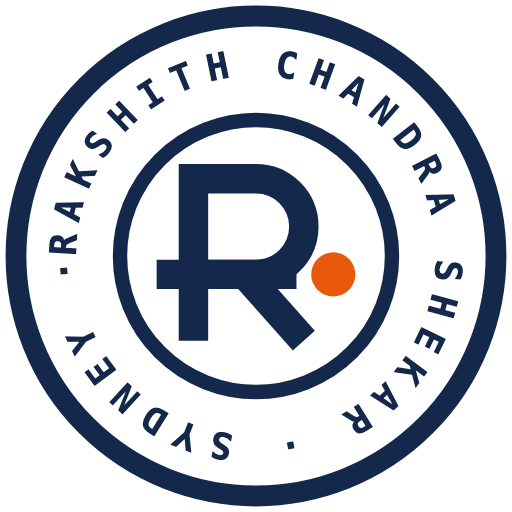
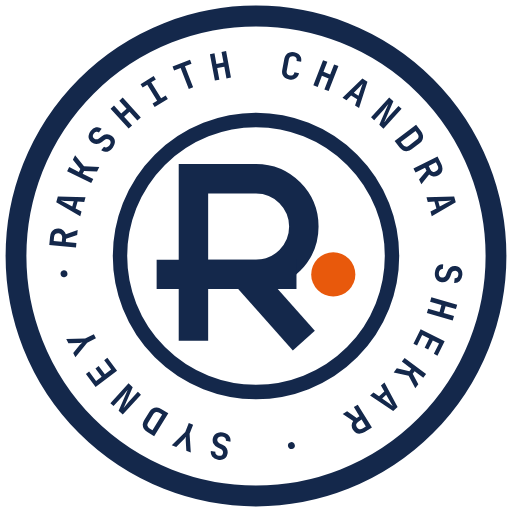
Phase 2 review: drop contact-heading seal, hide hero seal <640px, outline seal text
Seal ring text is now outlined JetBrains Mono Bold glyphs, shared by the
master SVG, PNG and the React component (src/components/seal-text.ts).

diff --git a/src/components/seal-text.ts b/src/components/seal-text.ts
@@ -1,0 +1,3 @@
+// Generated: the seal's ring text as outlined JetBrains Mono Bold glyphs (see public/brand/seal.svg).
+export const SEAL_TEXT_D =
+  "M9.55 30.38L9.5 30.95L6.16 30.64L6.26 29.58Q6.29 29.25 6.43 29.01Q6.58 28.78 6.81 28.66Q7.05 28.55 7.35 28.57L7.35 28.57Q7.68 28.61 7.92 28.8Q8.15 28.99 8.23 29.28L8.23 29.28L9.71 28.75L9.65 29.39L8.26 29.85L8.23 30.25L9.55 30.38M6.71 30.11L7.72 30.21L7.77 29.72Q7.79 29.48 7.67 29.33Q7.55 29.18 7.32 29.16L7.32 29.16Q7.08 29.14 6.93 29.26Q6.78 29.39 6.76 29.63L6.76 29.63L6.71 30.11M10.19 26.45L10.03 27.02L7.03 25.28L7.23 24.57L10.69 24.67L10.53 25.24L9.7 25.19L9.45 26.05L10.19 26.45M8.22 25.38L9.03 25.82L9.22 25.16L8.3 25.11Q8.06 25.1 7.88 25.08Q7.69 25.07 7.61 25.06L7.61 25.06Q7.69 25.1 7.85 25.18Q8.02 25.26 8.22 25.38L8.22 25.38M11.66 22.38L11.4 22.89L8.39 21.4L8.65 20.88L9.86 21.49L10.04 21.13L9.11 19.96L9.39 19.4L10.5 20.79L12.41 20.86L12.13 21.44L10.51 21.37L10.33 21.72L11.66 22.38M14.09 18.46L14.09 18.46Q13.88 18.74 13.63 18.87Q13.39 19 13.14 18.98Q12.89 18.96 12.65 18.79L12.65 18.79L13 18.33Q13.16 18.46 13.35 18.41Q13.53 18.36 13.69 18.15L13.69 18.15Q13.84 17.95 13.83 17.77Q13.82 17.59 13.66 17.47L13.66 17.47Q13.52 17.37 13.36 17.37Q13.2 17.37 13.06 17.49L13.06 17.49L12.74 17.74Q12.42 17.99 12.08 18Q11.74 18.02 11.44 17.79L11.44 17.79Q11.22 17.62 11.13 17.39Q11.03 17.16 11.09 16.9Q11.14 16.64 11.33 16.39L11.33 16.39Q11.62 16 12 15.92Q12.37 15.84 12.71 16.09L12.71 16.09L12.36 16.55Q12.2 16.43 12.04 16.47Q11.87 16.5 11.73 16.69L11.73 16.69Q11.59 16.87 11.6 17.03Q11.61 17.2 11.77 17.31L11.77 17.31Q11.91 17.42 12.06 17.42Q12.21 17.42 12.36 17.3L12.36 17.3L12.69 17.05Q13.01 16.79 13.35 16.78Q13.68 16.77 13.99 17L13.99 17Q14.22 17.17 14.31 17.41Q14.4 17.65 14.34 17.92Q14.29 18.19 14.09 18.46M16.51 15.68L16.08 16.06L13.82 13.58L14.25 13.19L15.15 14.19L15.82 13.58L14.91 12.59L15.34 12.2L17.6 14.68L17.17 15.07L16.18 13.98L15.51 14.58L16.51 15.68M20.98 12.36L19.33 13.38L19.07 12.95L19.64 12.59L18.41 10.6L17.83 10.95L17.57 10.52L19.21 9.51L19.48 9.94L18.9 10.29L20.14 12.29L20.71 11.93L20.98 12.36M24.14 10.91L23.6 11.12L22.58 8.49L21.76 8.81L21.57 8.31L23.75 7.47L23.94 7.96L23.12 8.28L24.14 10.91M27.42 9.97L26.86 10.07L26.24 6.77L26.81 6.67L27.05 7.99L27.94 7.82L27.69 6.5L28.26 6.39L28.87 9.69L28.31 9.8L28.04 8.35L27.15 8.51L27.42 9.97M36.14 9.93L36.14 9.93Q35.83 9.87 35.61 9.71Q35.4 9.54 35.31 9.3Q35.22 9.06 35.28 8.76L35.28 8.76L35.55 7.32Q35.6 7.02 35.77 6.83Q35.94 6.63 36.2 6.56Q36.46 6.48 36.78 6.54L36.78 6.54Q37.1 6.6 37.31 6.76Q37.52 6.93 37.61 7.17Q37.7 7.41 37.64 7.71L37.64 7.71L37.07 7.61Q37.12 7.37 37.02 7.23Q36.92 7.08 36.68 7.04L36.68 7.04Q36.45 6.99 36.3 7.09Q36.16 7.19 36.11 7.42L36.11 7.42L35.84 8.86Q35.8 9.1 35.9 9.24Q36.01 9.39 36.24 9.43L36.24 9.43Q36.47 9.48 36.62 9.38Q36.76 9.28 36.81 9.04L36.81 9.04L37.38 9.15Q37.32 9.45 37.15 9.64Q36.98 9.84 36.72 9.92Q36.47 9.99 36.14 9.93M39.71 10.86L39.17 10.65L40.38 7.52L40.92 7.73L40.43 8.98L41.27 9.31L41.76 8.05L42.3 8.26L41.08 11.39L40.55 11.18L41.08 9.81L40.24 9.48L39.71 10.86M43.31 12.54L42.81 12.23L45.3 9.82L45.93 10.21L44.88 13.51L44.38 13.2L44.65 12.41L43.89 11.94L43.31 12.54M44.88 10.94L44.23 11.6L44.81 11.96L45.11 11.09Q45.19 10.87 45.25 10.69Q45.32 10.52 45.35 10.44L45.35 10.44Q45.29 10.5 45.17 10.64Q45.04 10.78 44.88 10.94L44.88 10.94M46.77 15.02L46.38 14.67L48.65 12.18L49.17 12.66L48.03 15.29Q48.12 15.17 48.24 15.02Q48.36 14.86 48.5 14.7Q48.63 14.54 48.74 14.42L48.74 14.42L49.81 13.24L50.2 13.6L47.93 16.08L47.41 15.6L48.56 12.98Q48.48 13.08 48.36 13.23Q48.24 13.38 48.11 13.53Q47.99 13.68 47.88 13.81L47.88 13.81L46.77 15.02M49.93 18.41L49.33 17.61L52.01 15.59L52.61 16.39Q52.82 16.66 52.87 16.94Q52.91 17.21 52.81 17.47Q52.71 17.72 52.45 17.91L52.45 17.91L51.45 18.67Q51.19 18.86 50.92 18.89Q50.65 18.93 50.39 18.8Q50.14 18.68 49.93 18.41L49.93 18.41M51.94 16.37L50.1 17.75L50.36 18.09Q50.51 18.29 50.71 18.32Q50.91 18.36 51.1 18.21L51.1 18.21L52.1 17.45Q52.29 17.31 52.32 17.11Q52.34 16.9 52.19 16.71L52.19 16.71L51.94 16.37M51.94 21.56L51.68 21.05L54.69 19.55L55.16 20.5Q55.31 20.8 55.31 21.08Q55.31 21.35 55.17 21.58Q55.03 21.8 54.76 21.94L54.76 21.94Q54.46 22.08 54.16 22.05Q53.86 22.01 53.64 21.8L53.64 21.8L52.67 23.03L52.38 22.45L53.31 21.34L53.13 20.97L51.94 21.56M54.49 20.29L53.59 20.74L53.8 21.18Q53.91 21.4 54.09 21.46Q54.27 21.53 54.48 21.42L54.48 21.42Q54.7 21.31 54.76 21.13Q54.82 20.95 54.71 20.73L54.71 20.73L54.49 20.29M53.47 25.24L53.31 24.67L56.77 24.57L56.97 25.28L53.97 27.02L53.81 26.45L54.55 26.05L54.3 25.19L53.47 25.24M55.71 25.11L54.78 25.16L54.97 25.82L55.78 25.38Q55.98 25.27 56.15 25.18Q56.31 25.1 56.39 25.06L56.39 25.06Q56.31 25.07 56.12 25.09Q55.94 25.1 55.71 25.11L55.71 25.11M54.36 34.08L54.36 34.08Q54.39 33.74 54.53 33.5Q54.66 33.25 54.89 33.14Q55.12 33.02 55.4 33.05L55.4 33.05L55.35 33.62Q55.15 33.6 55.02 33.74Q54.88 33.88 54.86 34.13L54.86 34.13Q54.84 34.38 54.94 34.53Q55.04 34.68 55.24 34.7L55.24 34.7Q55.41 34.71 55.55 34.63Q55.68 34.54 55.74 34.36L55.74 34.36L55.89 33.99Q56.02 33.6 56.3 33.41Q56.58 33.22 56.96 33.26L56.96 33.26Q57.24 33.29 57.44 33.43Q57.64 33.58 57.73 33.83Q57.82 34.07 57.79 34.39L57.79 34.39Q57.75 34.88 57.47 35.14Q57.2 35.4 56.77 35.37L56.77 35.37L56.83 34.79Q57.02 34.81 57.15 34.7Q57.27 34.58 57.29 34.34L57.29 34.34Q57.32 34.12 57.22 33.99Q57.13 33.85 56.93 33.83L56.93 33.83Q56.76 33.82 56.63 33.9Q56.5 33.98 56.43 34.16L56.43 34.16L56.29 34.55Q56.15 34.94 55.87 35.12Q55.59 35.31 55.21 35.27L55.21 35.27Q54.93 35.25 54.72 35.09Q54.52 34.93 54.42 34.67Q54.33 34.42 54.36 34.08M53.76 37.72L53.92 37.17L57.15 38.09L56.99 38.64L55.7 38.27L55.45 39.14L56.75 39.51L56.59 40.06L53.36 39.14L53.52 38.59L54.94 39L55.18 38.13L53.76 37.72M51.68 42.96L52.58 41.16L55.58 42.65L54.68 44.46L54.23 44.23L54.88 42.94L54.1 42.55L53.52 43.7L53.08 43.48L53.65 42.32L52.77 41.89L52.13 43.18L51.68 42.96M50.23 45.2L50.58 44.74L53.26 46.76L52.91 47.22L51.83 46.4L51.59 46.72L52.29 48.04L51.91 48.54L51.08 46.97L49.21 46.55L49.6 46.04L51.17 46.4L51.41 46.09L50.23 45.2M47.62 48.2L48.06 47.81L49.7 50.86L49.15 51.36L46.26 49.45L46.69 49.05L47.38 49.53L48.04 48.93L47.62 48.2M48.74 50.15L48.27 49.35L47.77 49.81L48.53 50.34Q48.72 50.47 48.87 50.58Q49.02 50.69 49.08 50.74L49.08 50.74Q49.04 50.67 48.94 50.51Q48.84 50.35 48.74 50.15L48.74 50.15M44.23 50.89L44.72 50.59L46.49 53.44L45.59 54Q45.3 54.18 45.02 54.2Q44.75 54.23 44.52 54.11Q44.28 53.99 44.12 53.73L44.12 53.73Q43.95 53.45 43.96 53.15Q43.97 52.85 44.15 52.61L44.15 52.61L42.84 51.75L43.39 51.41L44.59 52.24L44.93 52.02L44.23 50.89M45.73 53.31L45.2 52.45L44.79 52.71Q44.58 52.84 44.53 53.03Q44.48 53.21 44.61 53.41L44.61 53.41Q44.73 53.61 44.92 53.66Q45.11 53.7 45.32 53.57L45.32 53.57L45.73 53.31M36.35 55.27L36.35 55.27Q36.54 55.23 36.68 55.33Q36.82 55.42 36.85 55.61L36.85 55.61Q36.89 55.81 36.8 55.94Q36.7 56.08 36.51 56.12L36.51 56.12Q36.31 56.15 36.18 56.06Q36.04 55.96 36 55.77L36 55.77Q35.97 55.58 36.06 55.44Q36.16 55.31 36.35 55.27M27.87 54.07L27.87 54.07Q28.2 54.13 28.43 54.29Q28.66 54.45 28.75 54.69Q28.85 54.92 28.8 55.21L28.8 55.21L28.23 55.1Q28.27 54.9 28.15 54.76Q28.02 54.61 27.77 54.57L27.77 54.57Q27.52 54.52 27.36 54.61Q27.21 54.7 27.17 54.89L27.17 54.89Q27.14 55.06 27.21 55.2Q27.28 55.35 27.46 55.43L27.46 55.43L27.82 55.6Q28.19 55.77 28.35 56.07Q28.51 56.37 28.44 56.73L28.44 56.73Q28.39 57.01 28.23 57.2Q28.06 57.38 27.81 57.45Q27.55 57.52 27.24 57.46L27.24 57.46Q26.76 57.37 26.52 57.07Q26.29 56.77 26.36 56.36L26.36 56.36L26.93 56.46Q26.89 56.66 27 56.79Q27.1 56.93 27.33 56.97L27.33 56.97Q27.55 57.01 27.7 56.93Q27.84 56.85 27.87 56.66L27.87 56.66Q27.9 56.49 27.83 56.35Q27.76 56.21 27.6 56.13L27.6 56.13L27.22 55.95Q26.85 55.78 26.69 55.48Q26.53 55.19 26.6 54.81L26.6 54.81Q26.65 54.53 26.83 54.34Q27 54.15 27.27 54.08Q27.53 54.01 27.87 54.07M23.6 52.88L24.14 53.09L23.7 54.22L23.85 56.57L23.29 56.35L23.22 55.08Q23.21 54.93 23.22 54.79Q23.23 54.65 23.24 54.58L23.24 54.58Q23.2 54.64 23.12 54.75Q23.03 54.86 22.93 54.97L22.93 54.97L22.03 55.87L21.47 55.65L23.16 54.01L23.6 52.88M20.19 51.15L21.04 51.67L19.27 54.53L18.42 54Q18.13 53.83 17.98 53.58Q17.84 53.34 17.84 53.07Q17.85 52.8 18.02 52.52L18.02 52.52L18.68 51.46Q18.85 51.19 19.09 51.06Q19.33 50.93 19.61 50.95Q19.9 50.97 20.19 51.15L20.19 51.15M19.06 53.78L20.27 51.82L19.91 51.6Q19.7 51.47 19.5 51.51Q19.3 51.55 19.17 51.76L19.17 51.76L18.51 52.83Q18.38 53.03 18.43 53.23Q18.49 53.42 18.7 53.55L18.7 53.55L19.06 53.78M17.23 48.98L17.62 49.33L15.35 51.82L14.83 51.34L15.97 48.71Q15.88 48.83 15.76 48.98Q15.64 49.14 15.5 49.3Q15.37 49.46 15.26 49.58L15.26 49.58L14.19 50.76L13.8 50.4L16.07 47.92L16.59 48.4L15.44 51.02Q15.52 50.92 15.64 50.77Q15.76 50.62 15.89 50.47Q16.01 50.32 16.12 50.19L16.12 50.19L17.23 48.98M13.42 44.73L14.63 46.34L11.95 48.36L10.74 46.75L11.14 46.45L12.01 47.61L12.71 47.08L11.93 46.05L12.33 45.75L13.11 46.78L13.89 46.19L13.02 45.03L13.42 44.73M11.73 41.77L11.99 42.29L10.9 42.83L9.42 44.67L9.15 44.13L9.96 43.14Q10.06 43.02 10.16 42.93Q10.26 42.83 10.32 42.79L10.32 42.79Q10.24 42.8 10.11 42.83Q9.97 42.85 9.82 42.86L9.82 42.86L8.55 42.92L8.28 42.39L10.64 42.31L11.73 41.77M8.43 34.18L8.43 34.18Q8.45 34.38 8.34 34.51Q8.24 34.64 8.04 34.65L8.04 34.65Q7.84 34.67 7.72 34.57Q7.59 34.46 7.57 34.26L7.57 34.26Q7.55 34.07 7.66 33.94Q7.77 33.81 7.96 33.79L7.96 33.79Q8.16 33.77 8.28 33.88Q8.41 33.99 8.43 34.18";

diff --git a/src/components/logo.tsx b/src/components/logo.tsx
@@ -1,4 +1,4 @@
-import { useId } from "react";
+import { SEAL_TEXT_D } from "@/components/seal-text";
 import { t } from "@/lib/motion-config";
 
 // Brand marks. Geometry matches public/brand/mark.svg and seal.svg (the masters).
@@ -40,17 +40,12 @@ export function Mark({ className = "", draw = false, label }: { className?: stri
 
 /** Engineer's seal. Only for >= 96px: it reads as a (R) when smaller. */
 export function Seal({ className = "" }: { className?: string }) {
-  const id = "seal-" + useId().replace(/\W/g, "");
   return (
     <svg viewBox="0 0 64 64" aria-hidden className={className}>
       <circle cx="32" cy="32" r="30" fill="none" stroke="currentColor" strokeWidth="2.6" />
       <circle cx="32" cy="32" r="17" fill="none" stroke="currentColor" strokeWidth="1.8" />
-      <path id={id} d="M32 32m-22.5 0a22.5 22.5 0 1 1 45 0a22.5 22.5 0 1 1-45 0" fill="none" />
-      <text fontFamily="var(--font-mono)" fontWeight="700" fontSize="4.6" fill="currentColor">
-        <textPath href={`#${id}`} textLength="140" lengthAdjust="spacing">
-          RAKSHITH CHANDRA SHEKAR · SYDNEY ·
-        </textPath>
-      </text>
+      {/* ring text as outlines, so it renders the same everywhere (generated, see seal-text.ts) */}
+      <path d={SEAL_TEXT_D} fill="currentColor" />
       <g transform="translate(32 32) scale(.46) translate(-33 -31)">
         <MarkPaths />
       </g>

diff --git a/src/components/sections/hero.tsx b/src/components/sections/hero.tsx
@@ -68,7 +68,7 @@ export function Hero() {
               <BridgeHero />
             </DrawingFrame>
             {/* title-block stamp, like an engineer's approval seal */}
-            <Seal className="absolute -bottom-5 right-4 size-24 -rotate-6 rounded-full bg-bg text-ink md:size-28" />
+            <Seal className="absolute -bottom-5 right-4 hidden size-24 -rotate-6 rounded-full bg-bg text-ink sm:block md:size-28" />
           </div>
           {/* Legend for small screens, where in-drawing labels are hidden. */}
           <ol className="mt-4 grid gap-1 font-mono text-xs text-muted md:hidden">

diff --git a/src/components/blueprint/bridge-hero.tsx b/src/components/blueprint/bridge-hero.tsx
@@ -110,7 +110,7 @@ export function BridgeHero() {
       </svg>
       {/* title block */}
       <div
-        className="fade mt-1 border-t border-line pt-2 pr-24 font-mono text-sm text-muted md:pr-28"
+        className="fade mt-1 border-t border-line pt-2 font-mono text-sm text-muted sm:pr-24 md:pr-28"
         style={t(intro.titleBlock.delay, intro.titleBlock.dur)}
       >
         {/* the seal (hero.tsx) sits in the right of this block, so scale/Sydney live there */}

diff --git a/src/components/sections/contact.tsx b/src/components/sections/contact.tsx
@@ -8,7 +8,6 @@ export function Contact() {
   const c = site.contact;
   return (
     <footer id="contact" aria-label="contact" className="mx-auto max-w-[1100px] px-5 pb-10 pt-16 md:px-8">
-      <Seal className="mb-6 size-28 text-ink" />
       {/* heading fades up after the arrival drawing finishes */}
       <SheetHeader n="06" name="CONTACT" title={c.heading} headingDelay={ARRIVAL_DONE} />
       <div className="mt-8 grid items-end gap-10 lg:grid-cols-[1fr_280px]">
